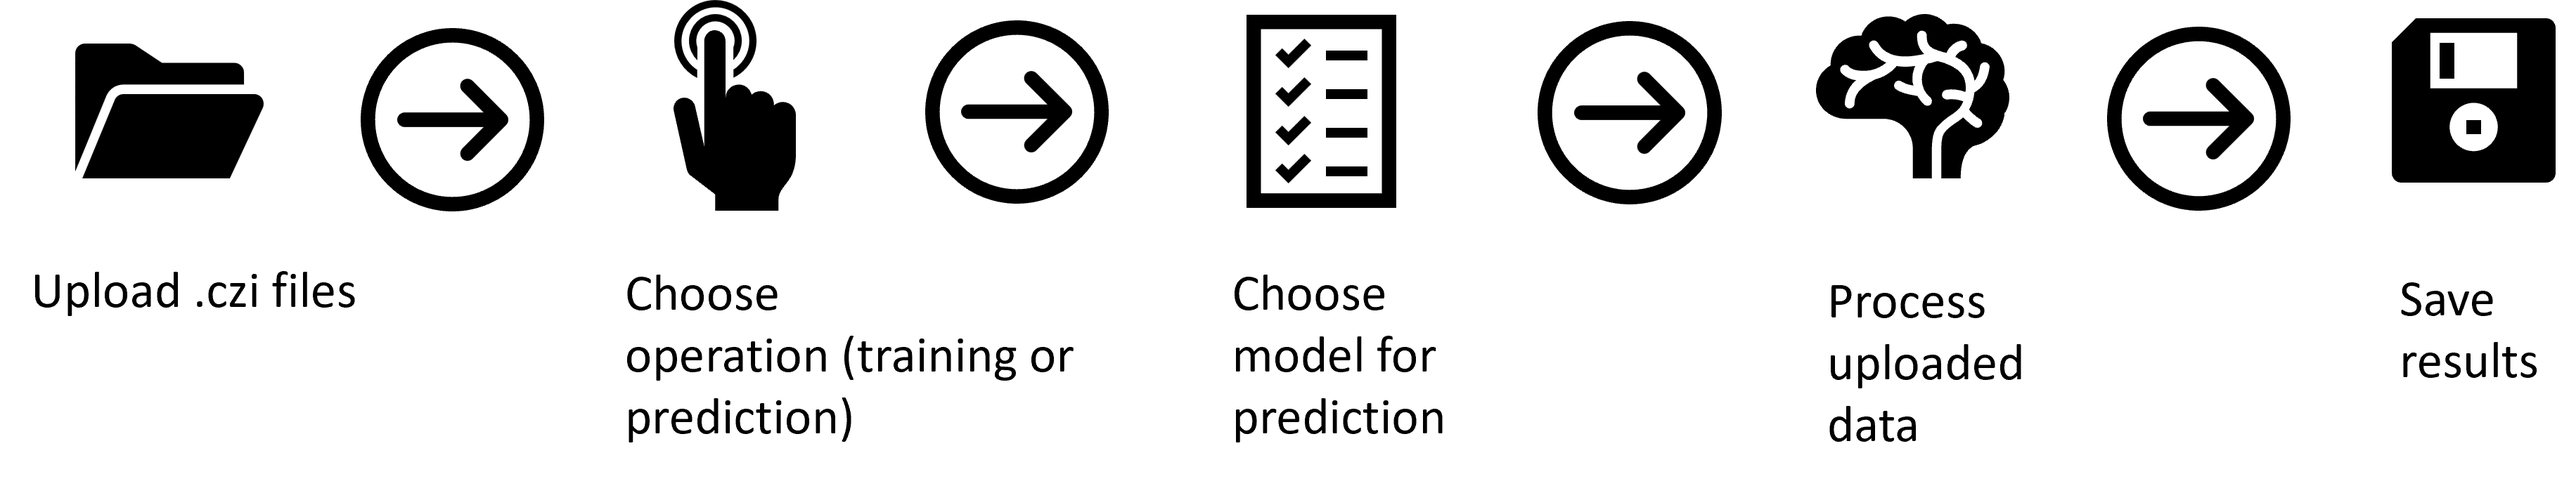
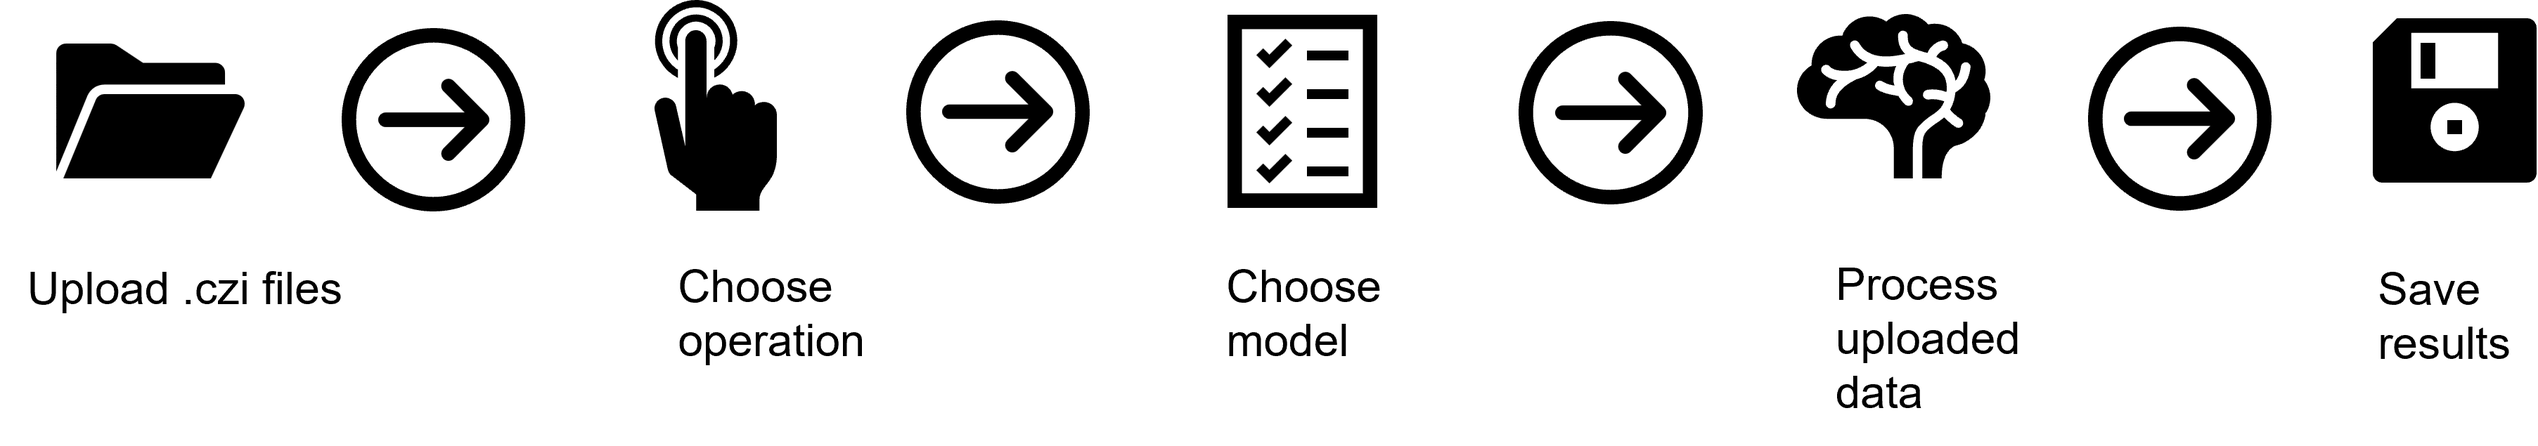
Changed scheme

diff --git a/app.py b/app.py
@@ -45,9 +45,10 @@ def get_user_info():
             
             <p>The application was written in Python and it is powered by PyWebIO module.</p>
             
-            <h1>How it works</h1> """)
+            <h1>How it works (prediction)</h1> """)
 
     img = Image.open("schema2.png", 'r')
+    #img = Image.open("schema_train_pred.png", 'r')
     put_image(img, width='903px', height='160px')
 
     info = input_group("User info", [
@@ -355,7 +356,7 @@ def create_training_test_datasets():
     create_COCO_dataset(czi_names_validate, images_names_validate, user_info, "COCO_test", images_directory, czi_files_directory)
 
 def upload_data_test_dataset_page():
-    data = input_group("Upload annotated files to create the test dataset in .czi format, otherwise the test dataset will be created automatically:", [
+    data = input_group("User can upload annotated files in .czi format to create the test/validation dataset, otherwise the test dataset will be created automatically: ", [
         file_upload("Upload data", accept=".czi", multiple=True, required=False, name="czi"),
         actions('', [
             #{'label': 'Submit', 'type': 'submit', 'value': 'submit'},
